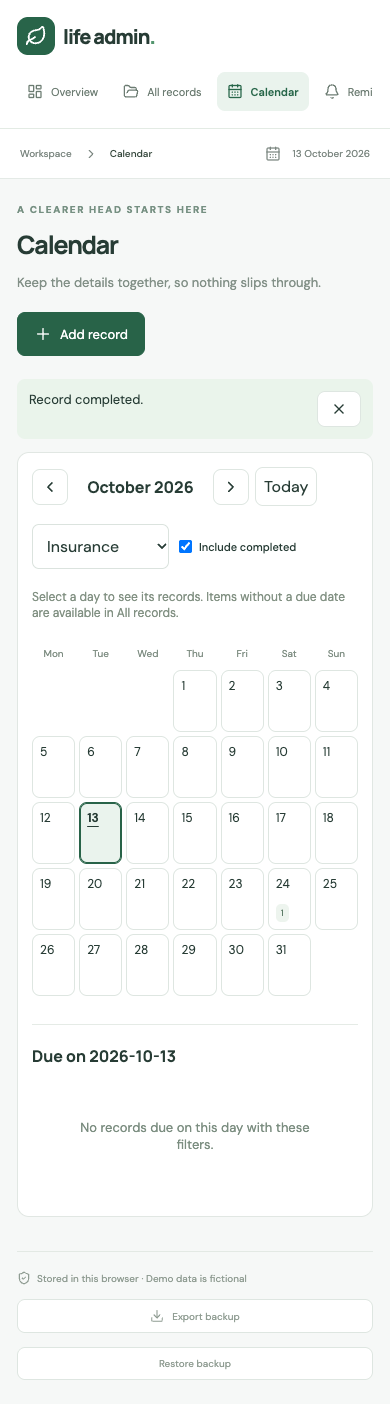
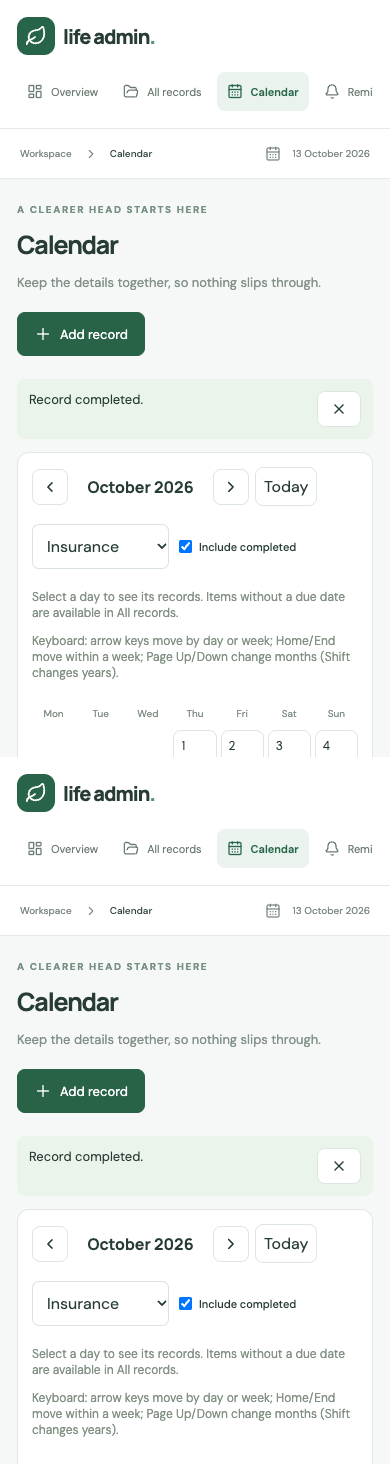
feat: add calendar keyboard navigation and recovery actions

diff --git a/tests/browser/app.spec.ts b/tests/browser/app.spec.ts
@@ -411,3 +411,94 @@ test("deleting a record restores focus to the page heading", async ({
     page.getByRole("heading", { name: "All records", exact: true }),
   ).toBeFocused();
 });
+
+test("calendar has one day tab stop and moves focus across months with keys", async ({
+  page,
+}) => {
+  await page.clock.install({ time: new Date("2026-10-14T12:00:00") });
+  await page.goto("/");
+  await page.getByRole("button", { name: "Calendar", exact: true }).click();
+  await expect(page.locator('.calendar-day[tabindex="0"]')).toHaveCount(1);
+  const day = page.getByRole("button", {
+    name: "2026-10-14, 0 records",
+    exact: true,
+  });
+  await day.focus();
+  await page.keyboard.press("ArrowRight");
+  await expect(
+    page.getByRole("button", { name: "2026-10-15, 0 records", exact: true }),
+  ).toBeFocused();
+  await page.keyboard.press("Home");
+  await expect(
+    page.getByRole("button", { name: "2026-10-12, 0 records", exact: true }),
+  ).toBeFocused();
+  await page.keyboard.press("End");
+  await expect(
+    page.getByRole("button", { name: "2026-10-18, 1 records", exact: true }),
+  ).toBeFocused();
+  await page.keyboard.press("PageDown");
+  await expect(
+    page.getByRole("heading", { name: "November 2026", exact: true }),
+  ).toBeVisible();
+  await expect(
+    page.getByRole("button", { name: "2026-11-18, 0 records", exact: true }),
+  ).toBeFocused();
+  await page.keyboard.press("Shift+PageUp");
+  await expect(
+    page.getByRole("button", { name: "2025-11-18, 0 records", exact: true }),
+  ).toBeFocused();
+  await expect(page.locator('.calendar-day[tabindex="0"]')).toHaveCount(1);
+});
+
+test("skip link and empty search recovery work with the keyboard", async ({
+  page,
+}) => {
+  await page.goto("/");
+  await page
+    .getByRole("heading", { name: "Life, a little more organized." })
+    .waitFor();
+  await page.keyboard.press("Tab");
+  await expect(
+    page.getByRole("link", { name: "Skip to main content" }),
+  ).toBeFocused();
+  await page.keyboard.press("Enter");
+  await expect(page.locator("#main-content")).toBeFocused();
+  await page.getByRole("button", { name: "All records", exact: true }).click();
+  await page.getByLabel("Search records").fill("nothing matches this query");
+  await expect(
+    page.getByText("No records found.", { exact: false }),
+  ).toBeVisible();
+  await page.getByRole("button", { name: "Reset record filters" }).focus();
+  await page.keyboard.press("Enter");
+  await expect(page.getByLabel("Search records")).toHaveValue("");
+  await expect(
+    page.getByRole("button").filter({ hasText: "Passport copy" }),
+  ).toBeVisible();
+});
+
+test("workspace opening failure is announced and can be retried", async ({
+  page,
+}) => {
+  await page.addInitScript(() => {
+    const state = window as typeof window & { failStorage: boolean };
+    state.failStorage = true;
+    const original = indexedDB.open.bind(indexedDB);
+    Object.defineProperty(indexedDB, "open", {
+      configurable: true,
+      value: (...args: Parameters<IDBFactory["open"]>) => {
+        if (state.failStorage)
+          throw new DOMException("Disabled for test", "SecurityError");
+        return original(...args);
+      },
+    });
+  });
+  await page.goto("/");
+  await expect(page.getByRole("alert")).toContainText("browser storage");
+  await page.evaluate(() => {
+    (window as typeof window & { failStorage: boolean }).failStorage = false;
+  });
+  await page.getByRole("button", { name: "Retry opening workspace" }).click();
+  await expect(
+    page.getByRole("heading", { name: "Life, a little more organized." }),
+  ).toBeVisible();
+});

diff --git a/src/CalendarView.tsx b/src/CalendarView.tsx
@@ -1,7 +1,12 @@
-import { useState } from "react";
+import { useEffect, useRef, useState } from "react";
 import { ChevronLeft, ChevronRight } from "lucide-react";
 import { kinds, type RecordItem } from "./domain";
-import { monthCells, monthLabel, shiftMonth } from "./calendar";
+import {
+  calendarKeyDate,
+  monthCells,
+  monthLabel,
+  shiftMonth,
+} from "./calendar";
 
 type Props = {
   records: RecordItem[];
@@ -11,6 +16,16 @@ type Props = {
 export function CalendarView({ records, today, onOpen }: Props) {
   const [month, setMonth] = useState(today.slice(0, 7));
   const [selected, setSelected] = useState(today);
+  const grid = useRef<HTMLDivElement>(null);
+  const keyboardFocus = useRef(false);
+  useEffect(() => {
+    if (keyboardFocus.current) {
+      grid.current
+        ?.querySelector<HTMLButtonElement>(`button[data-date="${selected}"]`)
+        ?.focus();
+      keyboardFocus.current = false;
+    }
+  }, [month, selected]);
   const [type, setType] = useState("All");
   const [showCompleted, setShowCompleted] = useState(false);
   const filtered = records.filter(
@@ -88,7 +103,17 @@ export function CalendarView({ records, today, onOpen }: Props) {
         Select a day to see its records. Items without a due date are available
         in All records.
       </p>
-      <div className="calendar-grid" aria-label="Month days">
+      <p id="calendar-keyboard-help" className="muted">
+        Keyboard: arrow keys move by day or week; Home/End move within a week;
+        Page Up/Down change months (Shift changes years).
+      </p>
+      <div
+        ref={grid}
+        className="calendar-grid"
+        role="group"
+        aria-label="Month days"
+        aria-describedby="calendar-keyboard-help"
+      >
         {["Mon", "Tue", "Wed", "Thu", "Fri", "Sat", "Sun"].map((day) => (
           <span className="weekday" key={day}>
             {day}
@@ -98,6 +123,30 @@ export function CalendarView({ records, today, onOpen }: Props) {
           date ? (
             <button
               key={date}
+              data-date={date}
+              tabIndex={date === selected ? 0 : -1}
+              onKeyDown={(event) => {
+                if (
+                  ![
+                    "ArrowLeft",
+                    "ArrowRight",
+                    "ArrowUp",
+                    "ArrowDown",
+                    "Home",
+                    "End",
+                    "PageUp",
+                    "PageDown",
+                  ].includes(event.key)
+                )
+                  return;
+                event.preventDefault();
+                const target = calendarKeyDate(date, event.key, event.shiftKey);
+                if (target && target !== selected) {
+                  keyboardFocus.current = true;
+                  setMonth(target.slice(0, 7));
+                  setSelected(target);
+                }
+              }}
               className={`calendar-day ${date === selected ? "selected" : ""}`}
               aria-label={`${date}, ${byDay.get(date)?.length ?? 0} records`}
               aria-pressed={date === selected}
@@ -118,7 +167,7 @@ export function CalendarView({ records, today, onOpen }: Props) {
         )}
       </div>
       <div className="calendar-agenda">
-        <h3>Due on {selected}</h3>
+        <h3 aria-live="polite">Due on {selected}</h3>
         {agenda.length ? (
           agenda.map((r) => (
             <button

diff --git a/src/App.tsx b/src/App.tsx
@@ -84,7 +84,7 @@ function App() {
       .then(setData)
       .catch(() =>
         setError(
-          "Unable to open browser storage. Please enable site storage and reload.",
+          "Unable to open browser storage. Please enable site storage and retry.",
         ),
       );
   }, []);
@@ -110,7 +110,27 @@ function App() {
       <main className="loading">
         <Leaf />
         <h1>Life, in order.</h1>
-        <p role="status">{error || "Opening your dashboard…"}</p>
+        {error ? (
+          <>
+            <p role="alert">{error}</p>
+            <button
+              onClick={() => {
+                setError("");
+                load()
+                  .then(setData)
+                  .catch(() =>
+                    setError(
+                      "Browser storage is still unavailable. Enable site storage and try again.",
+                    ),
+                  );
+              }}
+            >
+              Retry opening workspace
+            </button>
+          </>
+        ) : (
+          <p role="status">Opening your dashboard…</p>
+        )}
       </main>
     );
   const due = attention(data.records, today),
@@ -161,6 +181,9 @@ function App() {
   );
   return (
     <div className="app">
+      <a className="skip-link" href="#main-content">
+        Skip to main content
+      </a>
       <aside>
         <a className="brand" href="#" onClick={() => setView("Overview")}>
           <span>
@@ -223,7 +246,7 @@ function App() {
             })}
           </span>
         </header>
-        <main>
+        <main id="main-content" tabIndex={-1}>
           <div className="page-heading">
             <div>
               <p className="eyebrow">A CLEARER HEAD STARTS HERE</p>
@@ -447,9 +470,22 @@ function App() {
               </div>
               {records.map(row)}
               {!records.length && (
-                <p className="empty">
-                  No records found. Try another search or add your first record.
-                </p>
+                <div className="empty">
+                  <p>
+                    No records found. Try another search or add your first
+                    record.
+                  </p>
+                  {(query || filter !== "All") && (
+                    <button
+                      onClick={() => {
+                        setQuery("");
+                        setFilter("All");
+                      }}
+                    >
+                      Reset record filters
+                    </button>
+                  )}
+                </div>
               )}
             </section>
           )}

diff --git a/tests/calendar.test.ts b/tests/calendar.test.ts
@@ -1,5 +1,10 @@
 import { describe, it, expect } from "vitest";
-import { monthCells, shiftMonth, monthLabel } from "../src/calendar";
+import {
+  calendarKeyDate,
+  monthCells,
+  shiftMonth,
+  monthLabel,
+} from "../src/calendar";
 describe("date-only monthly calendar", () => {
   it("navigates year boundaries and bounds supported years", () => {
     expect(shiftMonth("2026-12", 1)).toBe("2027-01");
@@ -36,4 +41,16 @@ describe("date-only monthly calendar", () => {
       else process.env.TZ = original;
     }
   });
+});
+
+it("keyboard movement crosses month/year boundaries and clamps short months", () => {
+  expect(calendarKeyDate("2026-12-31", "ArrowRight")).toBe("2027-01-01");
+  expect(calendarKeyDate("2026-03-01", "ArrowUp")).toBe("2026-02-22");
+  expect(calendarKeyDate("2026-10-14", "Home")).toBe("2026-10-12");
+  expect(calendarKeyDate("2026-10-14", "End")).toBe("2026-10-18");
+  expect(calendarKeyDate("2026-01-31", "PageDown")).toBe("2026-02-28");
+  expect(calendarKeyDate("2028-02-29", "PageDown", true)).toBe("2029-02-28");
+  expect(calendarKeyDate("0001-01-01", "ArrowLeft")).toBeNull();
+  expect(calendarKeyDate("9999-12-31", "PageDown")).toBeNull();
+  expect(calendarKeyDate("2026-10-14", "Tab")).toBeNull();
 });

diff --git a/src/calendar.ts b/src/calendar.ts
@@ -33,3 +33,36 @@ export const monthLabel = (month: string) =>
     year: "numeric",
     timeZone: "UTC",
   }).format(monthDate(month));
+
+/** Keyboard movement uses calendar days, never elapsed hours. */
+export function calendarKeyDate(
+  date: string,
+  key: string,
+  shift = false,
+): string | null {
+  dateSchema.parse(date);
+  const current = new Date(`${date}T00:00:00Z`);
+  const weekday = (current.getUTCDay() + 6) % 7;
+  const delta: Record<string, number> = {
+    ArrowLeft: -1,
+    ArrowRight: 1,
+    ArrowUp: -7,
+    ArrowDown: 7,
+    Home: -weekday,
+    End: 6 - weekday,
+  };
+  if (key === "PageUp" || key === "PageDown") {
+    const month = shiftMonth(
+      date.slice(0, 7),
+      (key === "PageUp" ? -1 : 1) * (shift ? 12 : 1),
+    );
+    if (!month) return null;
+    const days = monthCells(month).filter((day): day is string => Boolean(day));
+    return days[Math.min(current.getUTCDate(), days.length) - 1];
+  }
+  if (!(key in delta)) return null;
+  current.setUTCDate(current.getUTCDate() + delta[key]);
+  return current.getUTCFullYear() >= 1 && current.getUTCFullYear() <= 9999
+    ? current.toISOString().slice(0, 10)
+    : null;
+}

diff --git a/playwright.config.ts b/playwright.config.ts
@@ -2,13 +2,13 @@ import { defineConfig } from "@playwright/test";
 export default defineConfig({
   testDir: "./tests/browser",
   use: {
-    baseURL: "http://127.0.0.1:5173",
+    baseURL: "http://127.0.0.1:4178",
     browserName: "chromium",
     launchOptions: { channel: "chrome" },
   },
   webServer: {
-    command: "npm run dev -- --host 127.0.0.1",
-    url: "http://127.0.0.1:5173",
-    reuseExistingServer: !process.env.CI,
+    command: "npm run dev -- --host 127.0.0.1 --port 4178 --strictPort",
+    url: "http://127.0.0.1:4178",
+    reuseExistingServer: false,
   },
 });

diff --git a/src/App.css b/src/App.css
@@ -1050,3 +1050,19 @@ dialog .primary {
   outline: 2px solid #93b9a5;
   outline-offset: 5px;
 }
+
+.skip-link {
+  position: fixed;
+  top: 8px;
+  left: 8px;
+  z-index: 50;
+  padding: 12px 18px;
+  border-radius: 8px;
+  background: #286348;
+  color: white;
+  transform: translateY(-160%);
+  text-decoration: none;
+}
+.skip-link:focus {
+  transform: translateY(0);
+}

diff --git a/docs/PROGRESS.md b/docs/PROGRESS.md
@@ -45,3 +45,9 @@ Verification: lint, production build, 20 unit/storage/backup/recurrence/calendar
 Converted the record-details overlay to a named native modal. Added a shared modal hook for details and the editor, explicit editor initial focus after opening, Escape dismissal and opener restoration. When deletion removes the record opener, focus moves to the page heading. Nested editing returns focus to Edit before closing details returns to the record row. Background controls are inert while a modal is open.
 
 Verification: lint, production build, 20 unit tests and 11 browser tests passed. The keyboard tests cover Enter activation, Tab/Shift+Tab movement, an attempted background focus, nested editor initial focus and Escape, opener restoration and deletion fallback. A failing initial-focus check was corrected, then the suite passed. Remaining day-five work: calendar keyboard usability and remaining empty/error-state review. No full screen-reader or cross-browser audit is claimed.
+
+## October 14, 2026 — day 5, calendar keyboard navigation and recovery
+
+Added a single day Tab stop with arrow-key day/week movement, Home/End within a Monday-first week, and Page Up/Down month movement (Shift for years). Focus follows the date across month/year boundaries, clamping short months; keyboard help and agenda announcements are included. Added a first-Tab skip link, a retry action for unavailable browser storage, and filter reset for empty searches.
+
+Verification: lint, production build, 21 unit tests and 14 browser tests passed. New tests cover keyboard date boundaries, real focus movement, one day tab stop, skip-link activation, empty-query reset and a simulated storage failure followed by successful retry. Initial browser checks reached an unrelated preview already on port 5173; the suite now starts its own strict server on port 4178 and never reuses a server. The unrelated server was preserved. Updated calendar screenshots reviewed on mobile. Day five's scoped accessibility/usability milestone is complete; storage reliability and release polish remain planned. No full assistive-technology or cross-browser audit is claimed.

diff --git a/README.md b/README.md
@@ -102,3 +102,9 @@ Select **Contact** in the record editor to add an email address, phone number an
 ### Keyboard dialogs
 
 Record details and the record editor use named native modal dialogs. Background controls cannot receive focus while a modal is open. Escape closes the top dialog; closing the editor returns to its Edit button, and closing details returns to its record opener. If that opener was deleted, focus returns to the page heading. Explicit Close buttons remain available for touch users. These behaviors are regression-tested in Chrome; they are not a claim of a complete screen-reader or cross-browser accessibility audit.
+
+### Calendar keyboard controls and recovery
+
+Tab enters the calendar on the selected day, with one day in the tab sequence. Arrow keys move by day/week; Home and End select the first/last day of the Monday-first week. Page Up/Down change months, and Shift changes years. Short months clamp to their final day. The agenda follows the focused date, and Tab can leave the days for the next control. Keyboard help is displayed in the calendar.
+
+The first Tab exposes **Skip to main content**. Empty record searches offer **Reset record filters**, and unavailable browser storage is announced with **Retry opening workspace**. The browser suite runs its own server on port 4178 with strict port selection; it refuses to reuse an existing server so another project's preview cannot accidentally be tested.
